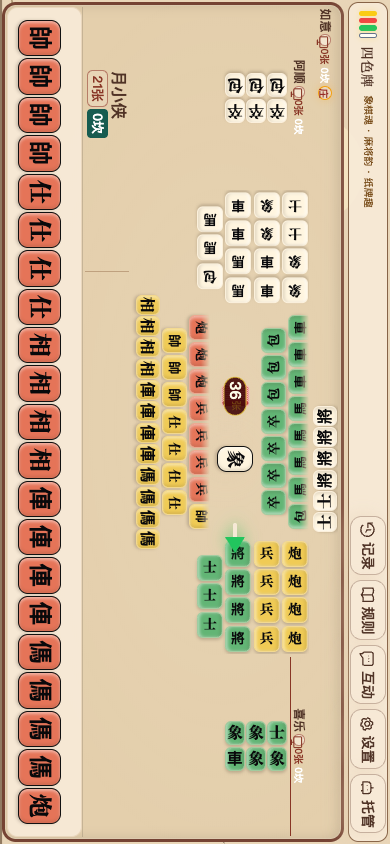
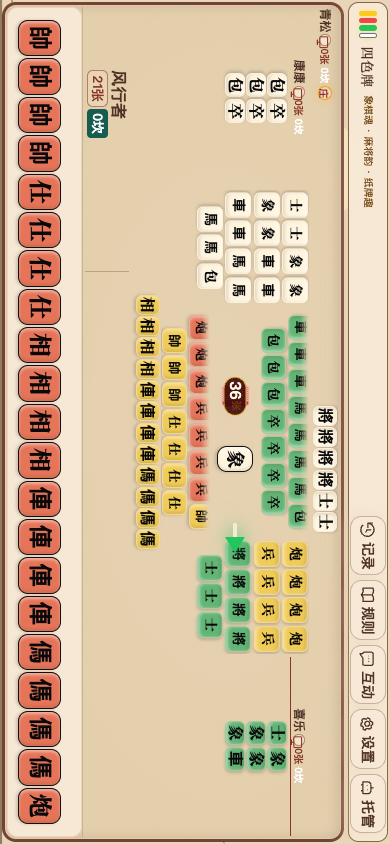
fix: keep mahjong card lettering upright

diff --git a/tests/e2e/mahjong-appearance.spec.ts b/tests/e2e/mahjong-appearance.spec.ts
@@ -95,11 +95,19 @@ for (const mode of ['long', 'large']) test(`mahjong ${mode} keeps crowded rivers
         handsVisible: [...board.querySelectorAll<HTMLElement>('.hand-card')].every(el => within(el.getBoundingClientRect(), board.querySelector('.hand')!.getBoundingClientRect())),
         sides: flows.map(el => el.dataset.flowSide).sort(),
         angles: Object.fromEntries(flows.map(el => [el.dataset.flowSide, getComputedStyle(el.querySelector('.discard-token')!).rotate])),
+        textUpright: [...board.querySelectorAll<HTMLElement>('.card .text, .card .color-seal')].every(text => {
+          const card = text.closest('.card')!;
+          const cardAngle = parseFloat(getComputedStyle(card).rotate) || 0;
+          const textStyle = getComputedStyle(text);
+          const matrix = new DOMMatrix(textStyle.transform);
+          const total = cardAngle + (parseFloat(textStyle.rotate) || 0) + Math.atan2(matrix.b, matrix.a) * 180 / Math.PI;
+          return Math.abs(total % 360) < 0.01;
+        }),
         flowCount: flows.map(el => el.querySelectorAll('.discard-token').length),
       };
     });
     expect(geometry, `${width}x${height}`).toMatchObject({ contained: true, noOverlap: true, tableFits: true, handsVisible: true,
-      sides: ['bottom', 'left', 'right', 'top'], angles: { bottom: '0deg', left: '90deg', right: '-90deg', top: '180deg' }, flowCount: [15, 15, 15, 15] });
+      textUpright: true, sides: ['bottom', 'left', 'right', 'top'], angles: { bottom: '0deg', left: '90deg', right: '-90deg', top: '180deg' }, flowCount: [15, 15, 15, 15] });
     // Every river can expose its final card without scrolling the whole table.
     for (const flow of await page.locator('.flow-card').all()) {
       await flow.locator('.discard-strip').evaluate(el => { el.scrollTop = el.scrollHeight; });
@@ -111,6 +119,30 @@ for (const mode of ['long', 'large']) test(`mahjong ${mode} keeps crowded rivers
       expect(visible).toBe(true);
     }
     await page.screenshot({ path: info.outputPath(`mahjong-${mode}-${width}x${height}.png`) });
+  }
+});
+
+for (const mode of ['long', 'large']) test(`mahjong ${mode} color labels stay upright and classic restores its lettering`, async ({ page }) => {
+  await page.setViewportSize({ width: 844, height: 390 });
+  await start(page, 'mahjong', mode);
+  await crowd(page);
+  await page.evaluate(() => document.documentElement.classList.add('show-card-color-assist'));
+  for (const side of ['bottom', 'left', 'top', 'right']) {
+    const seal = page.locator(`[data-flow-side="${side}"] .color-seal`).first();
+    await expect(seal).toBeVisible();
+    expect(await seal.evaluate(el => {
+      const card = el.closest('.card')!;
+      return (parseFloat(getComputedStyle(card).rotate) || 0) + (parseFloat(getComputedStyle(el).rotate) || 0);
+    })).toBe(0);
+  }
+  await page.getByTestId('game-settings').click();
+  await revealSetting(page, 'layout-classic');
+  await page.getByTestId('layout-classic').click();
+  await page.getByRole('button', { name: '关闭设置', exact: true }).click();
+  await expect(page.getByTestId('game-board')).toHaveAttribute('data-table-layout', 'classic');
+  if (mode === 'long') {
+    await expect.poll(() => page.locator('.hand-card .text-bottom').first().evaluate(el =>
+      new DOMMatrix(getComputedStyle(el).transform).a)).toBe(-1);
   }
 });
 
@@ -145,8 +177,17 @@ test('rotated river flights land on the exact face and defer layout changes unti
       const landing = document.querySelector<HTMLElement>(`.flow-card [data-face-id="${id}"]`)!;
       const a = face.getBoundingClientRect(), b = landing.getBoundingClientRect();
       return { delta: Math.max(Math.abs(a.left - b.left), Math.abs(a.top - b.top), Math.abs(a.width - b.width), Math.abs(a.height - b.height)),
-        transform: getComputedStyle(face).transform };
+        transform: getComputedStyle(face).transform,
+        textUpright: [...face.querySelectorAll('.text, .color-seal')].every(text => {
+          const matrix = new DOMMatrix(getComputedStyle(face).transform);
+          const textStyle = getComputedStyle(text);
+          const textMatrix = new DOMMatrix(textStyle.transform);
+          const total = Math.atan2(matrix.b, matrix.a) * 180 / Math.PI + (parseFloat(textStyle.rotate) || 0)
+            + Math.atan2(textMatrix.b, textMatrix.a) * 180 / Math.PI;
+          return Math.abs(total % 360) < 0.01;
+        }) };
     }, card.id);
+    expect(match.textUpright).toBe(true);
     expect(match.delta).toBeLessThanOrEqual(1);
     expect(match.transform).not.toBe('none');
     if (side === 'right') {

diff --git a/client/src/components/GameBoard.vue.js b/client/src/components/GameBoard.vue.js
@@ -640,6 +640,9 @@ const tableFlights = computed(() => coordinateMotionSuppressed.value ? [] : acti
         const angle = tableLocationRotation(move.to);
         const sideways = Math.abs(angle) === 90;
         cardStyle = { width: sideways ? `${end.height}px` : '100%', height: sideways ? `${end.width}px` : '100%', position: 'absolute', left: '50%', top: '50%', transform: `translate(-50%, -50%) rotate(${angle}deg)`, margin: '0', boxSizing: 'border-box', fontSize: style.fontSize, borderWidth: style.borderWidth, borderRadius: style.borderRadius, padding: style.padding,
+            '--card-text-width': style.getPropertyValue('--card-text-width') || '100%',
+            '--card-text-angle': style.getPropertyValue('--card-text-angle') || '0deg',
+            '--card-bottom-text-angle': style.getPropertyValue('--card-bottom-text-angle') || '180deg',
             '--flight-top-padding': top ? getComputedStyle(top).paddingTop : '0px',
             '--flight-bottom-padding': bottom ? getComputedStyle(bottom).paddingBottom : '0px' };
         tableFlightFaceStyles.set(key, cardStyle);

diff --git a/client/src/components/GameBoard.vue b/client/src/components/GameBoard.vue
@@ -1594,6 +1594,9 @@ const tableFlights = computed(() => coordinateMotionSuppressed.value ? [] : acti
     const angle = tableLocationRotation(move.to);
     const sideways = Math.abs(angle) === 90;
     cardStyle = { width: sideways ? `${end.height}px` : '100%', height: sideways ? `${end.width}px` : '100%', position: 'absolute', left: '50%', top: '50%', transform: `translate(-50%, -50%) rotate(${angle}deg)`, margin: '0', boxSizing: 'border-box', fontSize: style.fontSize, borderWidth: style.borderWidth, borderRadius: style.borderRadius, padding: style.padding,
+      '--card-text-width': style.getPropertyValue('--card-text-width') || '100%',
+      '--card-text-angle': style.getPropertyValue('--card-text-angle') || '0deg',
+      '--card-bottom-text-angle': style.getPropertyValue('--card-bottom-text-angle') || '180deg',
       '--flight-top-padding': top ? getComputedStyle(top).paddingTop : '0px',
       '--flight-bottom-padding': bottom ? getComputedStyle(bottom).paddingBottom : '0px' };
     tableFlightFaceStyles.set(key, cardStyle);

diff --git a/client/src/mahjong.css b/client/src/mahjong.css
@@ -1,6 +1,8 @@
 /* Names use a narrow rail; the remaining space belongs to complete melds. */
 .board[data-table-layout="mahjong"] {
   --mahjong-card-angle: 0deg;
+  --card-bottom-text-angle: 0deg;
+  --card-text-width: max-content;
   --mahjong-top-height: 25px;
   --mahjong-self-height: 25px;
   padding: 4px;
@@ -129,4 +131,9 @@
 @media (max-height: 359px), (max-width: 359px) {
   .board[data-table-layout="mahjong"]:not(.dealer-ceremony-active) { grid-template-rows: minmax(0, 1fr) minmax(44px, auto) 64px; }
   .board[data-table-layout="mahjong"] .cards.hand { --hand-height: 44px; padding-block: 14px 1px; }
+}
+
+/* Keep the writing upright while the card boxes still face their seats. */
+.board[data-table-layout="mahjong"] :is(.mini-card, .discard-token) {
+  --card-text-angle: calc(-1 * var(--mahjong-card-angle));
 }

diff --git a/client/src/components/Card.vue b/client/src/components/Card.vue
@@ -196,11 +196,15 @@ const modeClass = computed<RenderedCardMode>(() => props.mode ?? "long");
   }
 }
 
+.text, .color-seal {
+  rotate: var(--card-text-angle, 0deg);
+}
+
 .text {
   display: flex;
   justify-content: center;
   align-items: center;
-  width: 100%;
+  width: var(--card-text-width, 100%);
   line-height: 1;
   letter-spacing: 0.03em;
 }
@@ -212,7 +216,7 @@ const modeClass = computed<RenderedCardMode>(() => props.mode ?? "long");
 
 .text-bottom {
   align-self: end;
-  transform: rotate(180deg);
+  transform: rotate(var(--card-bottom-text-angle, 180deg));
   padding-bottom: 3px;
 }
 

diff --git a/client/src/components/Card.vue.js b/client/src/components/Card.vue.js
@@ -41,6 +41,8 @@ let __VLS_directives;
 /** @type {__VLS_StyleScopedClasses['size-xl']} */ ;
 /** @type {__VLS_StyleScopedClasses['mode-large']} */ ;
 /** @type {__VLS_StyleScopedClasses['card']} */ ;
+/** @type {__VLS_StyleScopedClasses['color-seal']} */ ;
+/** @type {__VLS_StyleScopedClasses['text']} */ ;
 /** @type {__VLS_StyleScopedClasses['text-top']} */ ;
 /** @type {__VLS_StyleScopedClasses['text-bottom']} */ ;
 /** @type {__VLS_StyleScopedClasses['card']} */ ;

diff --git a/docs/validation/mahjong-layout/README.md b/docs/validation/mahjong-layout/README.md
@@ -11,9 +11,12 @@
 - 在 640×350、667×375、390×844、1440×900 下验证 12 组所有牌面首屏完整可见：不执行滚动、不允许区域溢出；玩家身份、流水、当前牌与操作区不被挤走。左右姓名/状态栏不超过 20px 高，牌组使用超过 90% 的座位宽度。
 - 另用 28 组吃牌测试极端滚动兜底：Chrome / WebKit 逐组检查全部牌面可达，字体不低于 10px；Chromium 原生触摸注入验证四个座位在竖屏旋转后都能拖动。大量吃牌旁的翻页手牌仍保留至少 28×44px 触摸区域。
 - 21 / 14 / 5 张手牌及声明标记在 568×320、640×350、350×640、667×375 下完整可见；普通手机保留手牌放大空间，矮桌面使用 44px 自然牌高并预留标记空间。
+- 麻将模式所有牌面文字保持正向：四家流水、明示牌、自己的手牌、长牌上下文字及颜色辅助字；牌框保留座位朝向。飞牌复制目标字向，切回经典恢复原有上下字向。
 - 左、右、对家旋转飞牌与最终牌面的矩形误差 ≤ 1px；动画结束前不切换实际布局。
 
 ## 结果
+
+- 牌面文字正向修复：构建通过，合入颜色辅助空间修复后，Chrome / WebKit 拥挤流水、旋转飞牌、十二组吃牌、颜色辅助字无遮挡及切回经典字向恢复共 18 项通过；手机和桌面截图已刷新。
 
 - `npm run build` 通过（包含本次姓名栏、明示牌组和流水高度修复）。
 - 游戏交互回归：50 项通过，涵盖设置、中央抽牌、流水稳定性、旁观、吃碰竞争与减少动态效果。
